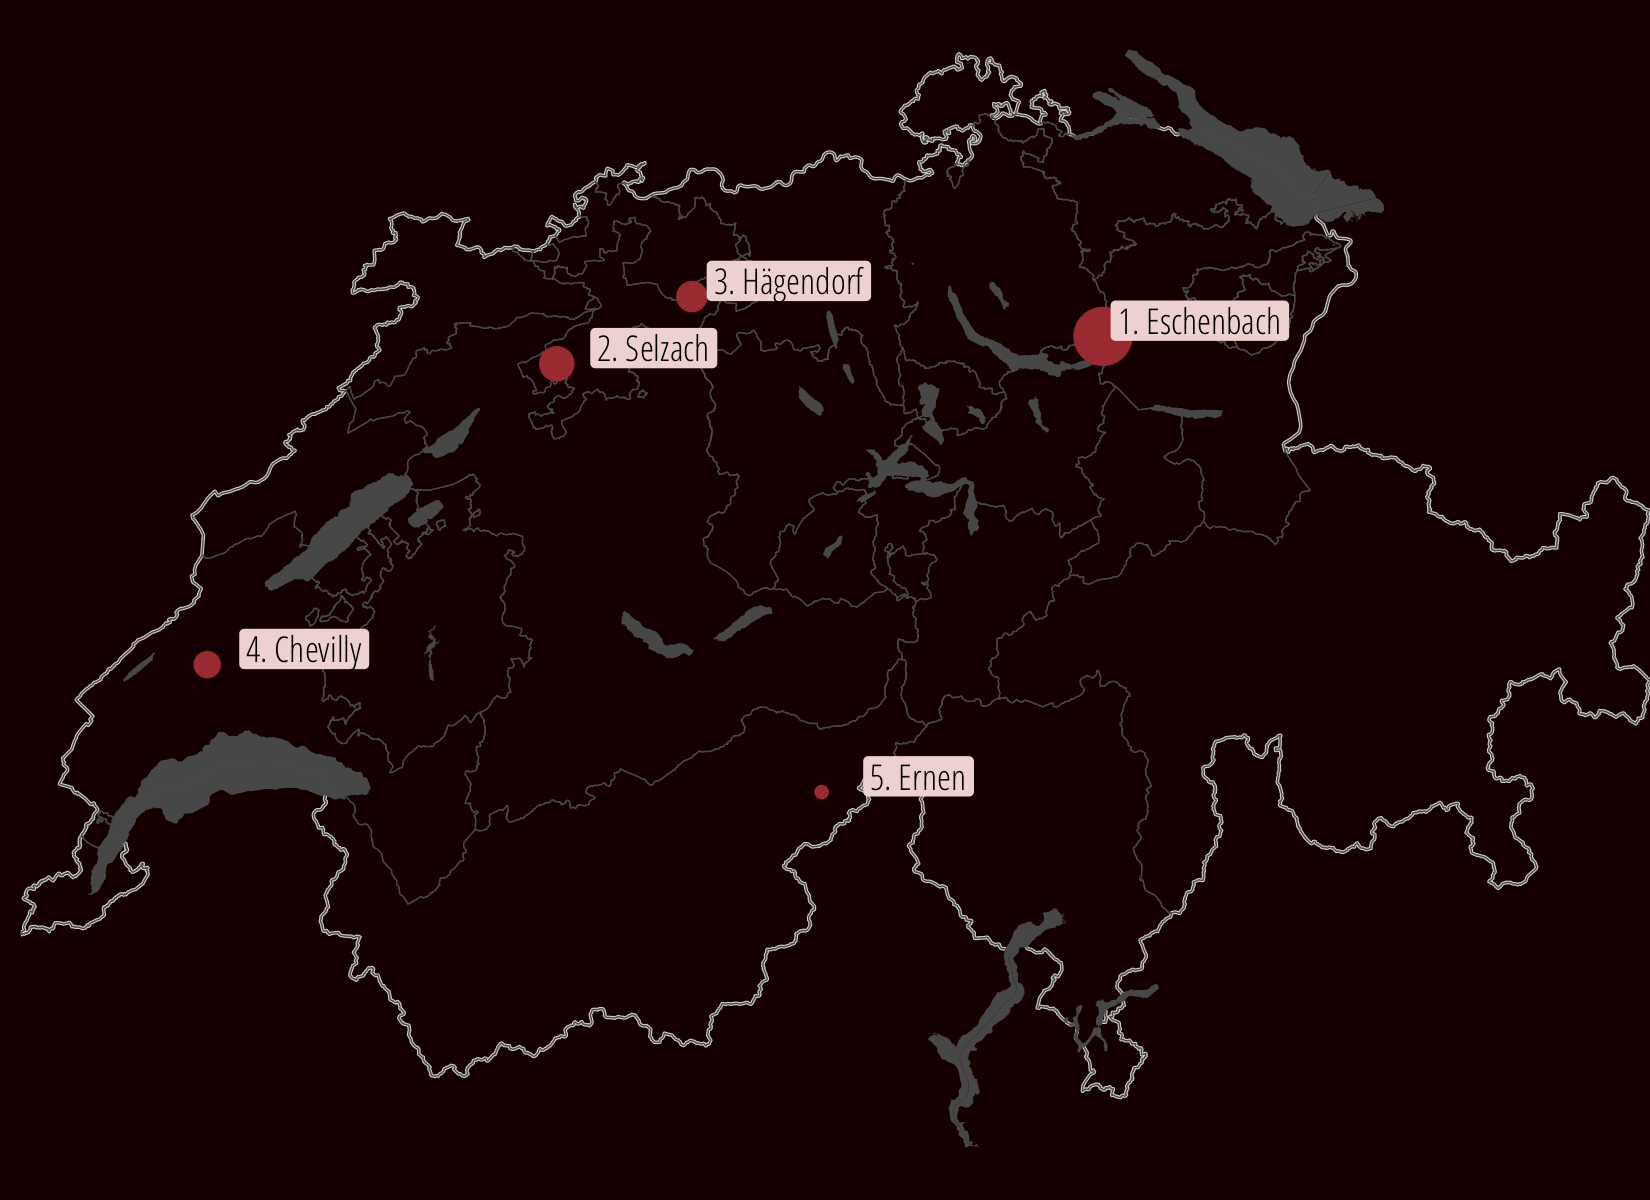
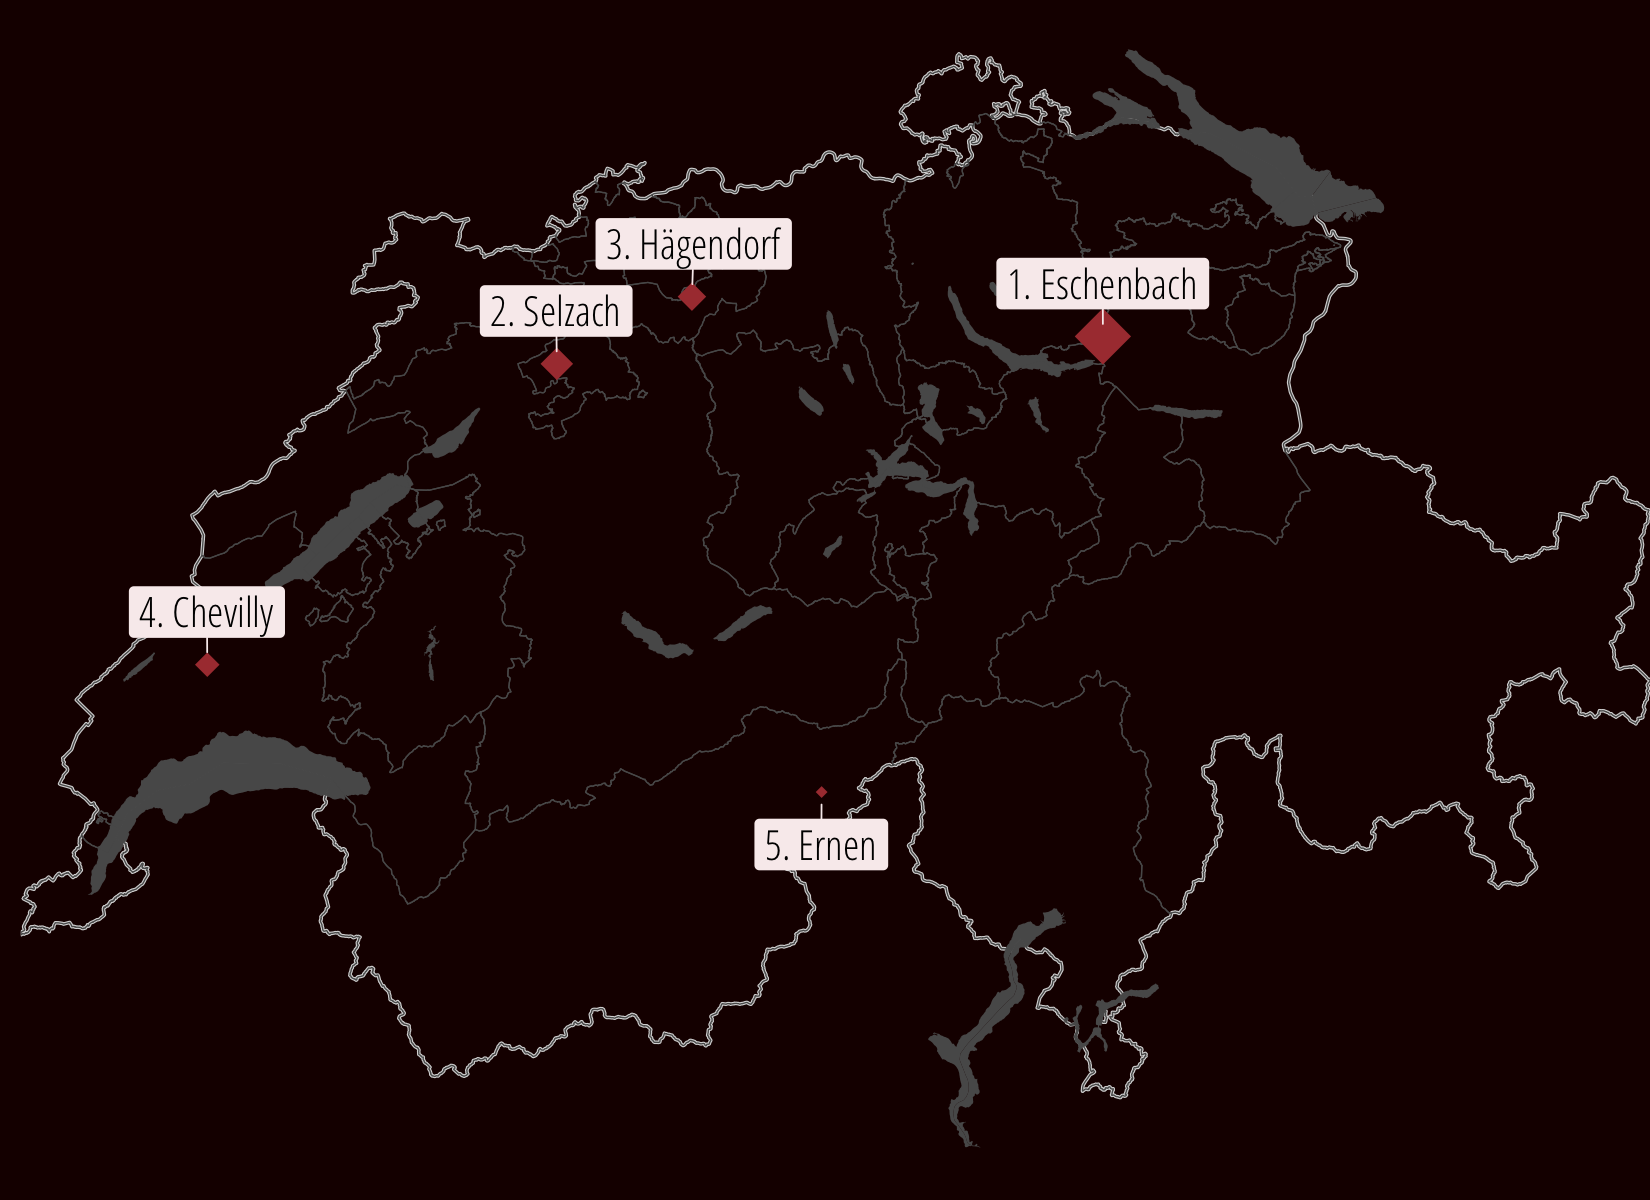
aesthetic improvements and mobile UX

diff --git a/output/01_map_flickr_EN.html b/output/01_map_flickr_EN.html
@@ -12,7 +12,7 @@ body, h1, h2, h3, h4, h5, h6, .descr, td, table {
    font-family: 'Open Sans Condensed', sans-serif;
    color: #ffffff;
    background-color: #1a0000;
-   font-size: 16px;
+   font-size: 17px;
    margin:7px 0px 0px 0px;
 }
 
@@ -23,7 +23,7 @@ img {
 
 
 #cite {
-    font-size: 0.85em; color: #B8B8B8; text-align: right; margin-top:1px; margin-right:15px; padding-bottom: 3px;
+    font-size: 1em; color: #B8B8B8; text-align: right; margin-top:1px; margin-right:15px; padding-bottom: 3px;
 }
 #cite a { text-decoration: none; color: #821122; }
 
@@ -37,7 +37,7 @@ img {
 }
     
 .descr {
- font-size: 0.95em;
+ font-size: 1.1em;
  color: #e6e6e6;
  font-weight: lighter;
  max-width:97%;

diff --git a/output/02_map_top10_totPics_EN.html b/output/02_map_top10_totPics_EN.html
@@ -12,7 +12,7 @@ body, h1, h2, h3, h4, h5, h6, .descr, td, table {
    font-family: 'Open Sans Condensed', sans-serif;
    color: #ffffff;
    background-color: #1a0000;
-   font-size: 16px;
+   font-size: 17px;
    margin:7px 0px 0px 0px;
 }
 
@@ -23,7 +23,7 @@ img {
 
 
 #cite {
-    font-size: 0.85em; color: #B8B8B8; text-align: right; margin-top:1px; margin-right:15px; padding-bottom: 3px;
+    font-size: 1em; color: #B8B8B8; text-align: right; margin-top:1px; margin-right:15px; padding-bottom: 3px;
 }
 #cite a { text-decoration: none; color: #821122; }
 
@@ -37,7 +37,7 @@ img {
 }
     
 .descr {
- font-size: 0.95em;
+ font-size: 1.1em;
  color: #e6e6e6;
  font-weight: lighter;
  max-width:97%;

diff --git a/output/03_map_top5_averageView_EN.html b/output/03_map_top5_averageView_EN.html
@@ -12,7 +12,7 @@ body, h1, h2, h3, h4, h5, h6, .descr, td, table {
    font-family: 'Open Sans Condensed', sans-serif;
    color: #ffffff;
    background-color: #1a0000;
-   font-size: 16px;
+   font-size: 17px;
    margin:7px 0px 0px 0px;
 }
 
@@ -23,7 +23,7 @@ img {
 
 
 #cite {
-    font-size: 0.85em; color: #B8B8B8; text-align: right; margin-top:1px; margin-right:15px; padding-bottom: 3px;
+    font-size: 1em; color: #B8B8B8; text-align: right; margin-top:1px; margin-right:15px; padding-bottom: 3px;
 }
 #cite a { text-decoration: none; color: #821122; }
 
@@ -37,7 +37,7 @@ img {
 }
     
 .descr {
- font-size: 0.95em;
+ font-size: 1.1em;
  color: #e6e6e6;
  font-weight: lighter;
  max-width:97%;

diff --git a/styles.html b/styles.html
@@ -7,7 +7,7 @@ body, h1, h2, h3, h4, h5, h6, .descr, td, table {
    font-family: 'Open Sans Condensed', sans-serif;
    color: #ffffff;
    background-color: #1a0000;
-   font-size: 16px;
+   font-size: 17px;
    margin:7px 0px 0px 0px;
 }
 
@@ -18,7 +18,7 @@ img {
 
 
 #cite {
-    font-size: 0.85em; color: #B8B8B8; text-align: right; margin-top:1px; margin-right:15px; padding-bottom: 3px;
+    font-size: 1em; color: #B8B8B8; text-align: right; margin-top:1px; margin-right:15px; padding-bottom: 3px;
 }
 #cite a { text-decoration: none; color: #821122; }
 
@@ -32,7 +32,7 @@ img {
 }
     
 .descr {
- font-size: 0.95em;
+ font-size: 1.1em;
  color: #e6e6e6;
  font-weight: lighter;
  max-width:97%;

diff --git a/03_createFlickrMap.html b/03_createFlickrMap.html
@@ -207,7 +207,7 @@ map2 &lt;- ggplot(co.df) +
     family = &quot;OpenSans-CondensedLight&quot;,
     colour = colourText_bkbg,
     nudge_y = -0.082,
-    size = 4
+    size = 4.2
   ) 
 
 map1.path &lt;- paste0(&quot;01_map_flickr_&quot; , lang, &quot;_01.png&quot;)
